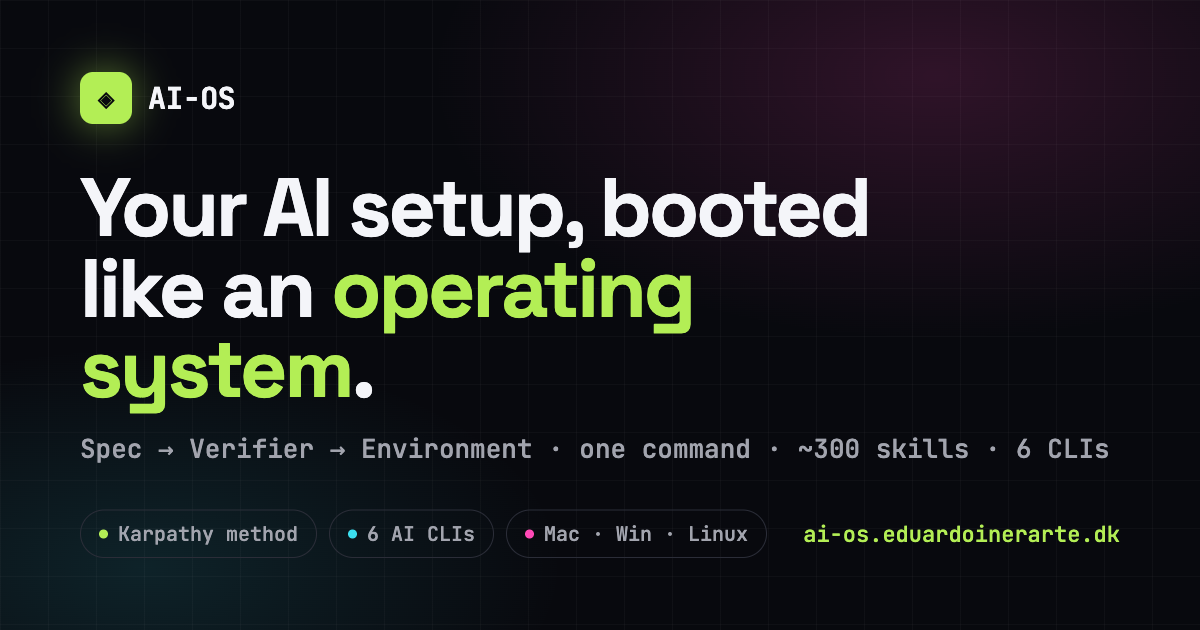
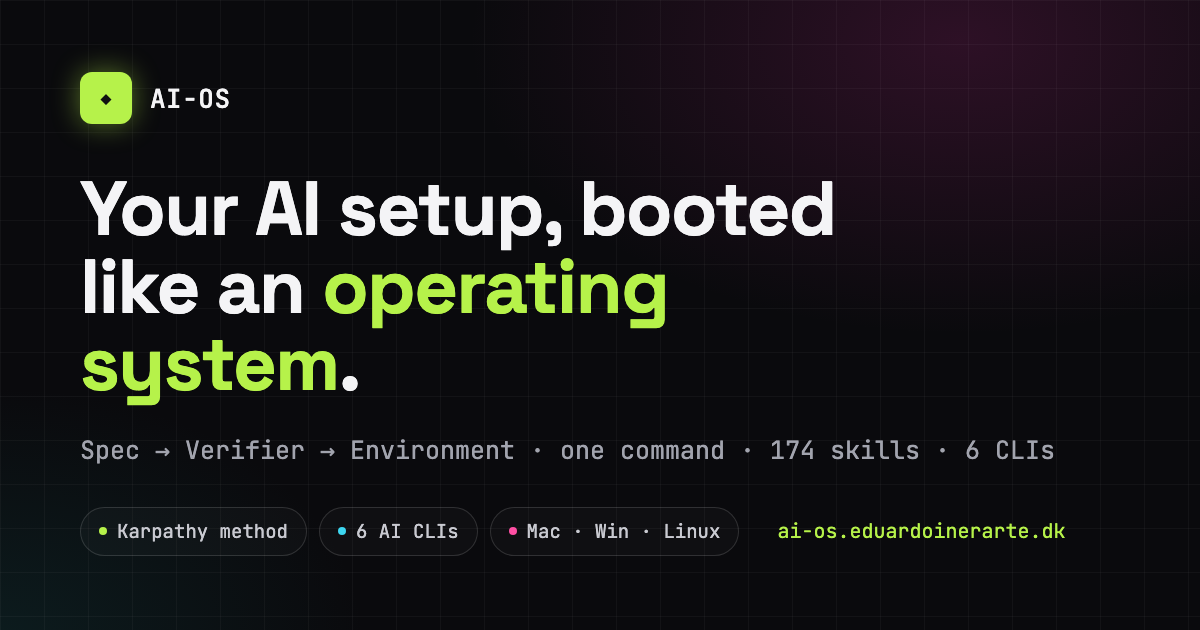
fix(site): update counts, method and diagrams to the current AI-OS
174 skills (was 186), 7 MCP servers (was 10; fs disabled, graphiti listed),
curated ECC subset instead of the 272-skill snapshot / install-ecc.sh, and
the opt-in Spec + small steps instead of 30-minute blocks. Architecture SVG
updated and re-exported to PNG at the same 2432x1370; og.png re-rendered with
the same design and '174 skills' instead of '~300'.

diff --git a/apps/site/index.html b/apps/site/index.html
@@ -6,7 +6,7 @@
 
 <!-- Primary SEO -->
 <title>AI-OS: AI operating system for your dev workflow</title>
-<meta name="description" content="AI-OS is a personal AI operating system built on Karpathy's Spec → Verifier → Environment method. One command restores 186 skills across 6 AI CLIs on Mac, Windows and Linux." />
+<meta name="description" content="AI-OS is a personal AI operating system built on Karpathy's Spec → Verifier → Environment method. One command restores 174 skills across 6 AI CLIs on Mac, Windows and Linux." />
 <meta name="author" content="Eduardo Inerarte" />
 <meta name="robots" content="index, follow, max-image-preview:large" />
 <meta name="keywords" content="AI operating system, Claude Code, Codex, Gemini, Hermes, MCP servers, AI skills, developer workflow, Karpathy method, dotfiles" />
@@ -19,7 +19,7 @@
 <meta property="og:type" content="website" />
 <meta property="og:site_name" content="AI-OS" />
 <meta property="og:title" content="AI-OS: Your AI setup, as an operating system" />
-<meta property="og:description" content="Spec → Verifier → Environment as real workflows. One command restores 186 skills across 6 AI CLIs. Mac · Windows · Linux." />
+<meta property="og:description" content="Spec → Verifier → Environment as real workflows. One command restores 174 skills across 6 AI CLIs. Mac · Windows · Linux." />
 <meta property="og:url" content="https://ai-os.eduardoinerarte.dk/" />
 <meta property="og:image" content="https://ai-os.eduardoinerarte.dk/og.png" />
 <meta property="og:image:width" content="1200" />
@@ -30,7 +30,7 @@
 <!-- Twitter -->
 <meta name="twitter:card" content="summary_large_image" />
 <meta name="twitter:title" content="AI-OS: Your AI setup, as an operating system" />
-<meta name="twitter:description" content="One command restores 186 skills across 6 AI CLIs. Mac · Windows · Linux." />
+<meta name="twitter:description" content="One command restores 174 skills across 6 AI CLIs. Mac · Windows · Linux." />
 <meta name="twitter:image" content="https://ai-os.eduardoinerarte.dk/og.png" />
 
 <!-- Structured data -->
@@ -43,7 +43,7 @@
       "name": "AI-OS",
       "applicationCategory": "DeveloperApplication",
       "operatingSystem": "macOS, Windows, Linux",
-      "description": "A personal AI operating system built on Andrej Karpathy's Spec → Verifier → Environment method. One command restores 186 skills across 6 AI CLIs, MCP servers as declarative YAML, and a reproducible dev environment.",
+      "description": "A personal AI operating system built on Andrej Karpathy's Spec → Verifier → Environment method. One command restores 174 skills across 6 AI CLIs, MCP servers as declarative YAML, and a reproducible dev environment.",
       "url": "https://ai-os.eduardoinerarte.dk/",
       "author": { "@type": "Person", "name": "Eduardo Inerarte" },
       "license": "https://opensource.org/licenses/MIT",
@@ -345,7 +345,7 @@
       </div>
       <h1>Your AI setup,<br />booted like an <span class="flick">operating&nbsp;system</span>.</h1>
       <p class="lede">
-        One command restores your context, <b>186 skills</b> and 10 MCP servers across
+        One command restores your context, <b>174 skills</b> and 7 MCP servers across
         six AI CLIs, on a brand-new Mac.
       </p>
       <div class="cta-row">
@@ -399,12 +399,12 @@
       <div class="layer reveal">
         <span class="tag">SKILLS</span>
         <h3>One source of truth, every CLI</h3>
-        <p>14 required superpowers + 172 curated &amp; vendored skills, symlinked into Claude Code, Codex, Gemini, Antigravity, Hermes &amp; MiniMax. Plus 16 more hand-picked from a 272-skill ECC snapshot.</p>
+        <p>14 required superpowers + 160 curated &amp; vendored skills (14 of them hand-picked from ECC), symlinked into Claude Code, Codex, Gemini, Antigravity, Hermes &amp; MiniMax. Project-specific skills stay in their own repos.</p>
       </div>
       <div class="layer reveal">
         <span class="tag">CONFIG</span>
         <h3>MCP + dotfiles as code</h3>
-        <p>10 MCP servers as declarative YAML, generated at install. zsh, Warp, Brewfile &amp; git config versioned in the same repo.</p>
+        <p>7 MCP servers as declarative YAML, generated at install — including a local graph memory and semantic code search. zsh, Warp, Brewfile &amp; git config versioned in the same repo.</p>
       </div>
       <div class="layer reveal">
         <span class="tag">BOUNDARY</span>
@@ -415,7 +415,7 @@
 
     <figure class="sysmap reveal">
       <img src="ai-os-system.svg" width="1280" height="720" loading="lazy" decoding="async"
-           alt="Whole-system architecture. Left: the ai-os repo holds context, rules, workflows, verifiers, ai-config and dev-env. Centre: setup/install-mac.sh reads it as the single entry point. Right, top: it symlinks skills and renders the instruction adapter into six CLIs. Right, bottom: it generates the config for 10 MCP servers plus the local memory stack. Along the bottom: every non-trivial task runs Spec, Execute, Verify, Archive, then resets the spec." />
+           alt="Whole-system architecture. Left: the ai-os repo holds context, rules, workflows, verifiers, ai-config and dev-env. Centre: setup/install-mac.sh reads it as the single entry point. Right, top: it symlinks skills and renders the instruction adapter into six CLIs. Right, bottom: it generates the config for 7 MCP servers plus the local memory stack. Along the bottom: every substantial task runs Spec, Execute, Verify, Archive, then resets the spec." />
       <figcaption>
         The whole system on one page.
         <a href="ai-os-system.svg">SVG</a> —
@@ -464,13 +464,13 @@
 <section id="method">
   <div class="wrap">
     <div class="sec-head reveal">
-      <h2>Every non-trivial task runs the same loop.</h2>
+      <h2>Every substantial task runs the same loop.</h2>
       <p>Spec quality first, verifier passes second, runtime evidence third. No "it builds, ship it."</p>
     </div>
     <div class="pipe">
-      <div class="step reveal" data-n="1"><span class="k">Spec</span><h3>Define the objective</h3><p>One active spec: objective, acceptance criteria, non-goals, risks.</p><span class="flow"></span></div>
-      <div class="step reveal" data-n="2"><span class="k">Plan</span><h3>Break into blocks</h3><p>Blocks of ≤30 min, dispatched in parallel when independent.</p><span class="flow"></span></div>
-      <div class="step reveal" data-n="3"><span class="k">Execute</span><h3>Block by block</h3><p>Verify after each block. Sub-agents self-report; you check the handles.</p><span class="flow"></span></div>
+      <div class="step reveal" data-n="1"><span class="k">Spec</span><h3>Define the objective</h3><p>For work over ~2 hours or across repos: one active spec — objective, acceptance criteria, non-goals, risks.</p><span class="flow"></span></div>
+      <div class="step reveal" data-n="2"><span class="k">Plan</span><h3>Break into steps</h3><p>Small, checkable steps, dispatched in parallel when independent.</p><span class="flow"></span></div>
+      <div class="step reveal" data-n="3"><span class="k">Execute</span><h3>Step by step</h3><p>Verify after each step. Sub-agents self-report; you check the handles.</p><span class="flow"></span></div>
       <div class="step reveal" data-n="4"><span class="k">Verify</span><h3>Gates per task</h3><p>Quality checklist, self-critique, source-check. Evidence before "done".</p><span class="flow"></span></div>
     </div>
   </div>
@@ -534,7 +534,7 @@ bash setup/verify.sh</pre>
         <div class="req reveal">
           <h3>Optional layers</h3>
           <ul>
-            <li><code>setup/install-ecc.sh</code>: the full 272-skill ECC snapshot as a Claude Code plugin</li>
+            <li><code>vendor/ecc/README.md</code>: how to vendor more ECC skills from upstream</li>
             <li><code>setup/install-claude-tools.sh</code>: 12 more claude.tools / gstack skills</li>
             <li><code>DRY_RUN=1</code>: simulate without touching your machine</li>
           </ul>
@@ -608,8 +608,8 @@ bash setup/verify.sh</pre>
   const seq = [
     { t: 'npx @edd_remonts/create-ai-os', cls: 'cm' },
     { o: '✓ 70 brew packages · zsh · p10k' },
-    { o: '✓ 186 skills → claude · codex · gemini · hermes' },
-    { o: '✓ 10 MCP servers generated' },
+    { o: '✓ 174 skills → claude · codex · gemini · hermes' },
+    { o: '✓ 7 MCP servers generated' },
     { t: 'cd ai-os', cls: 'cm' },
     { t: 'bash setup/verify.sh', cls: 'cm' },
     { o: '✓ 20/20 sections passed, ready.' },
